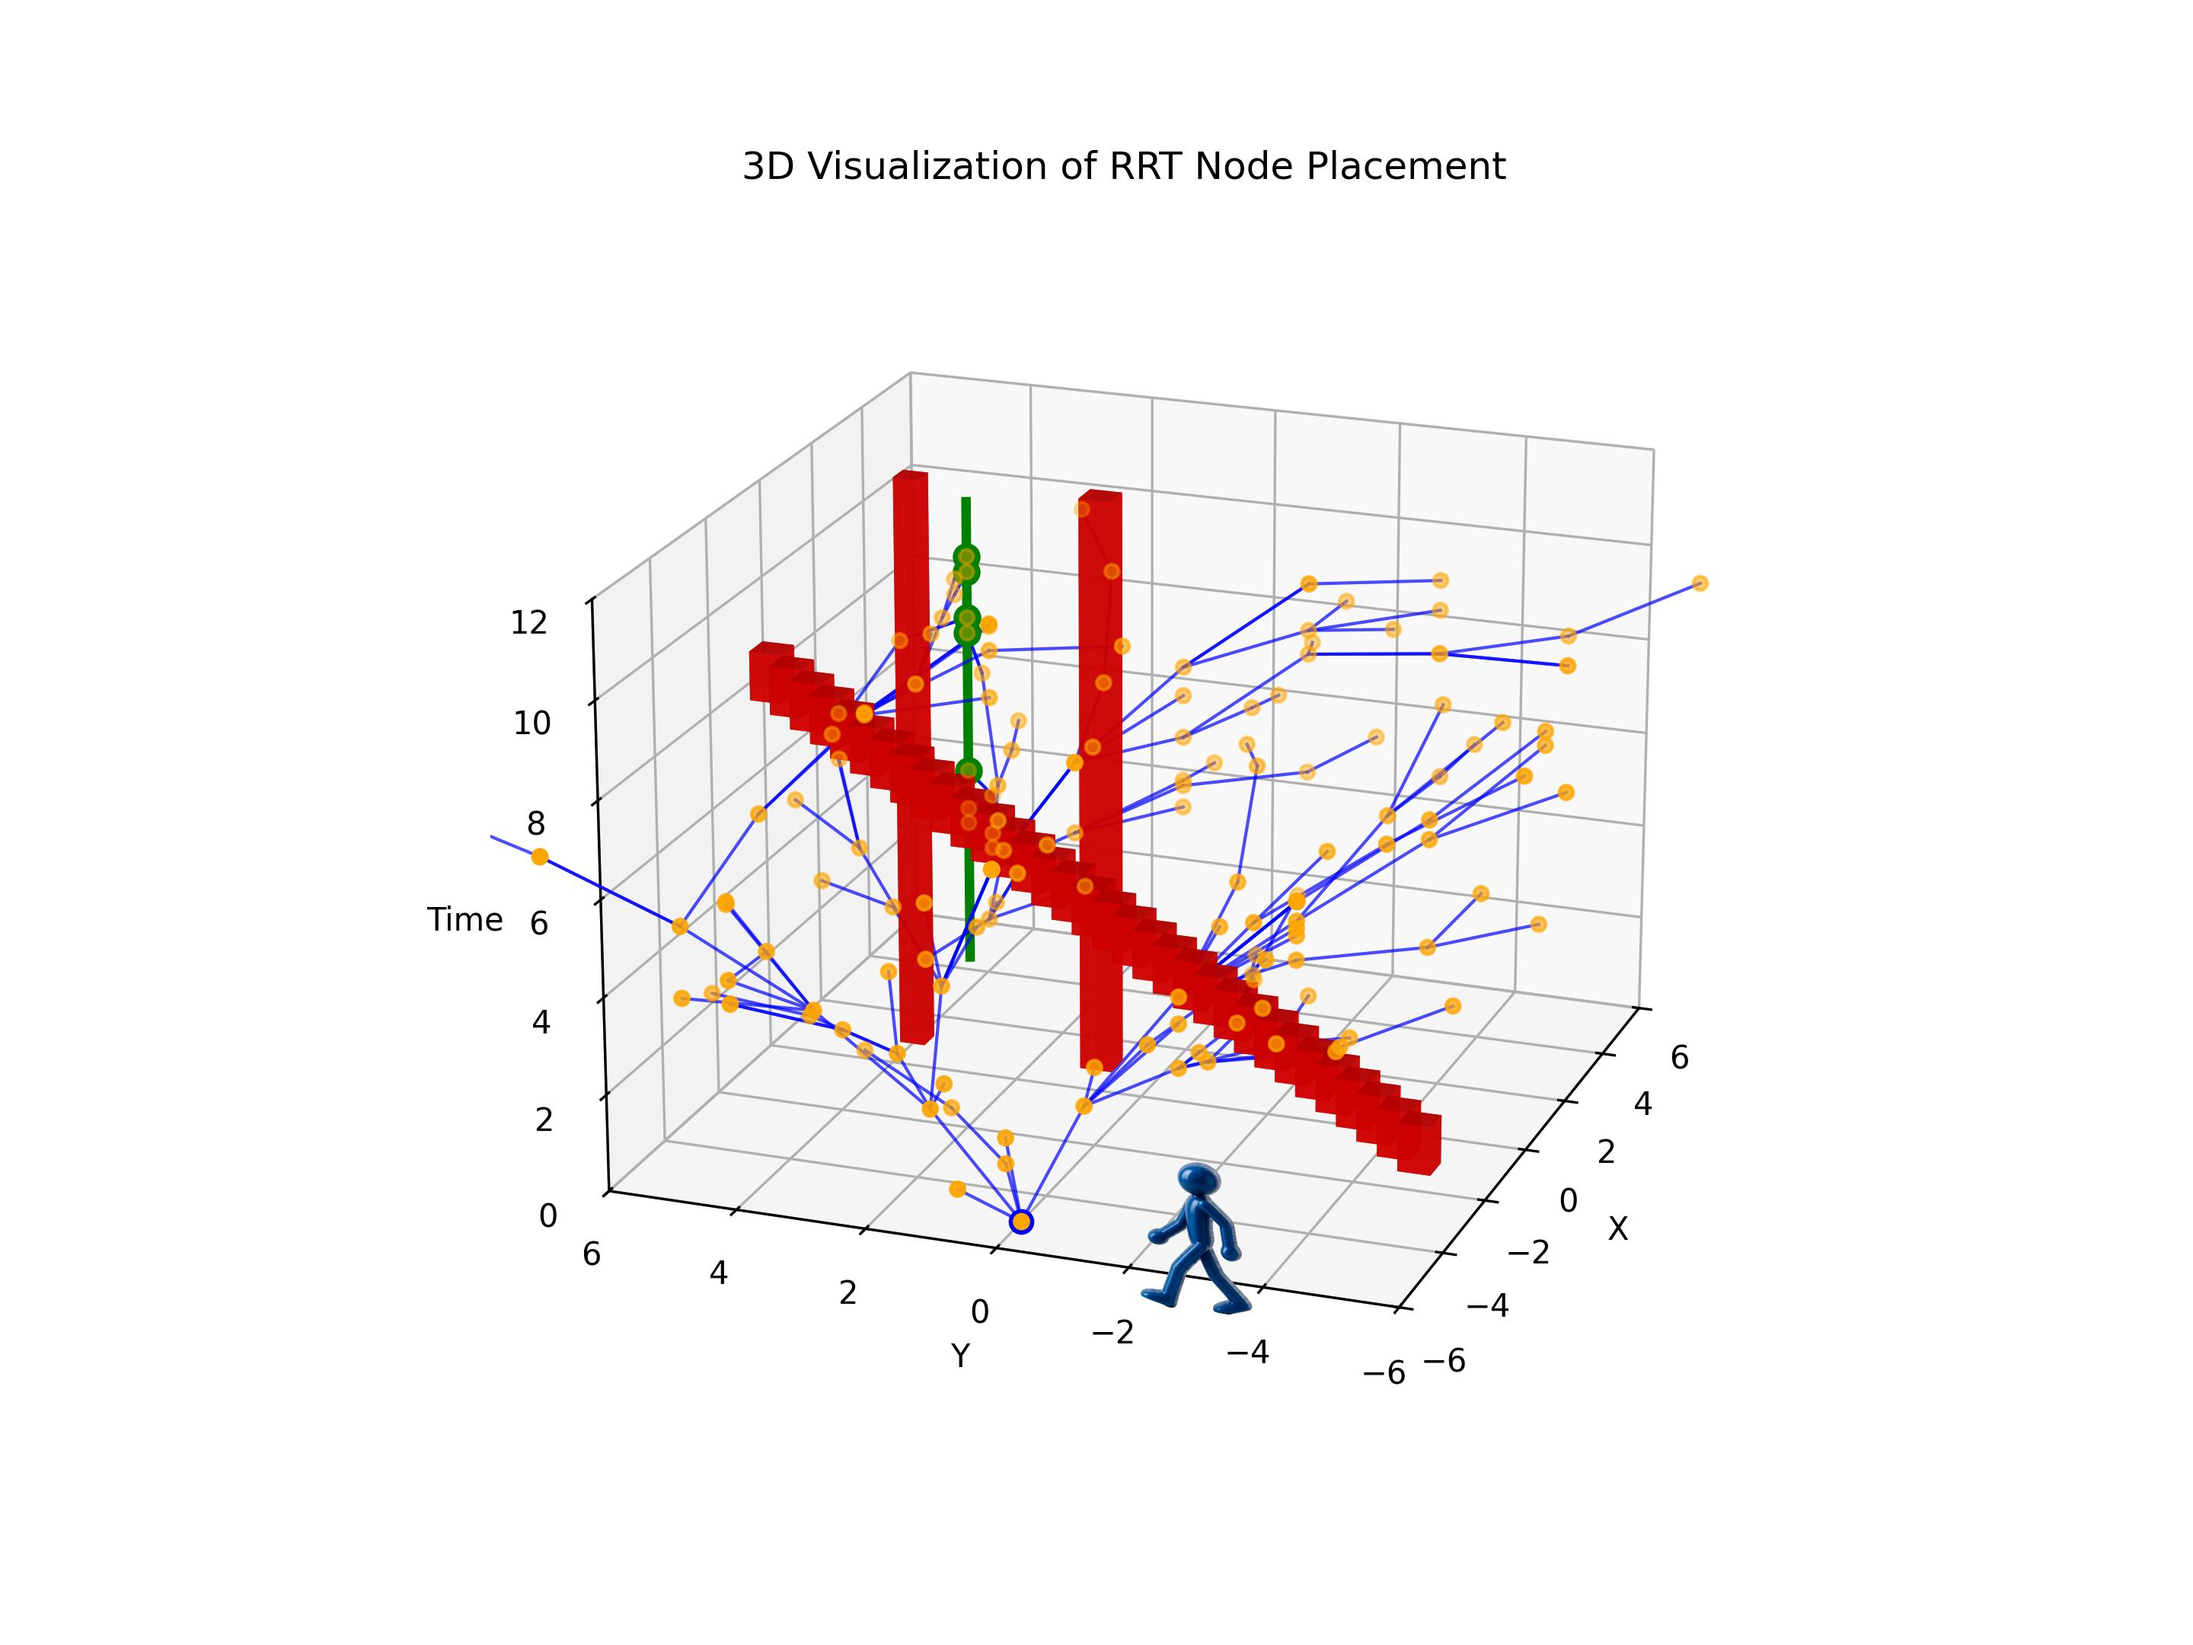
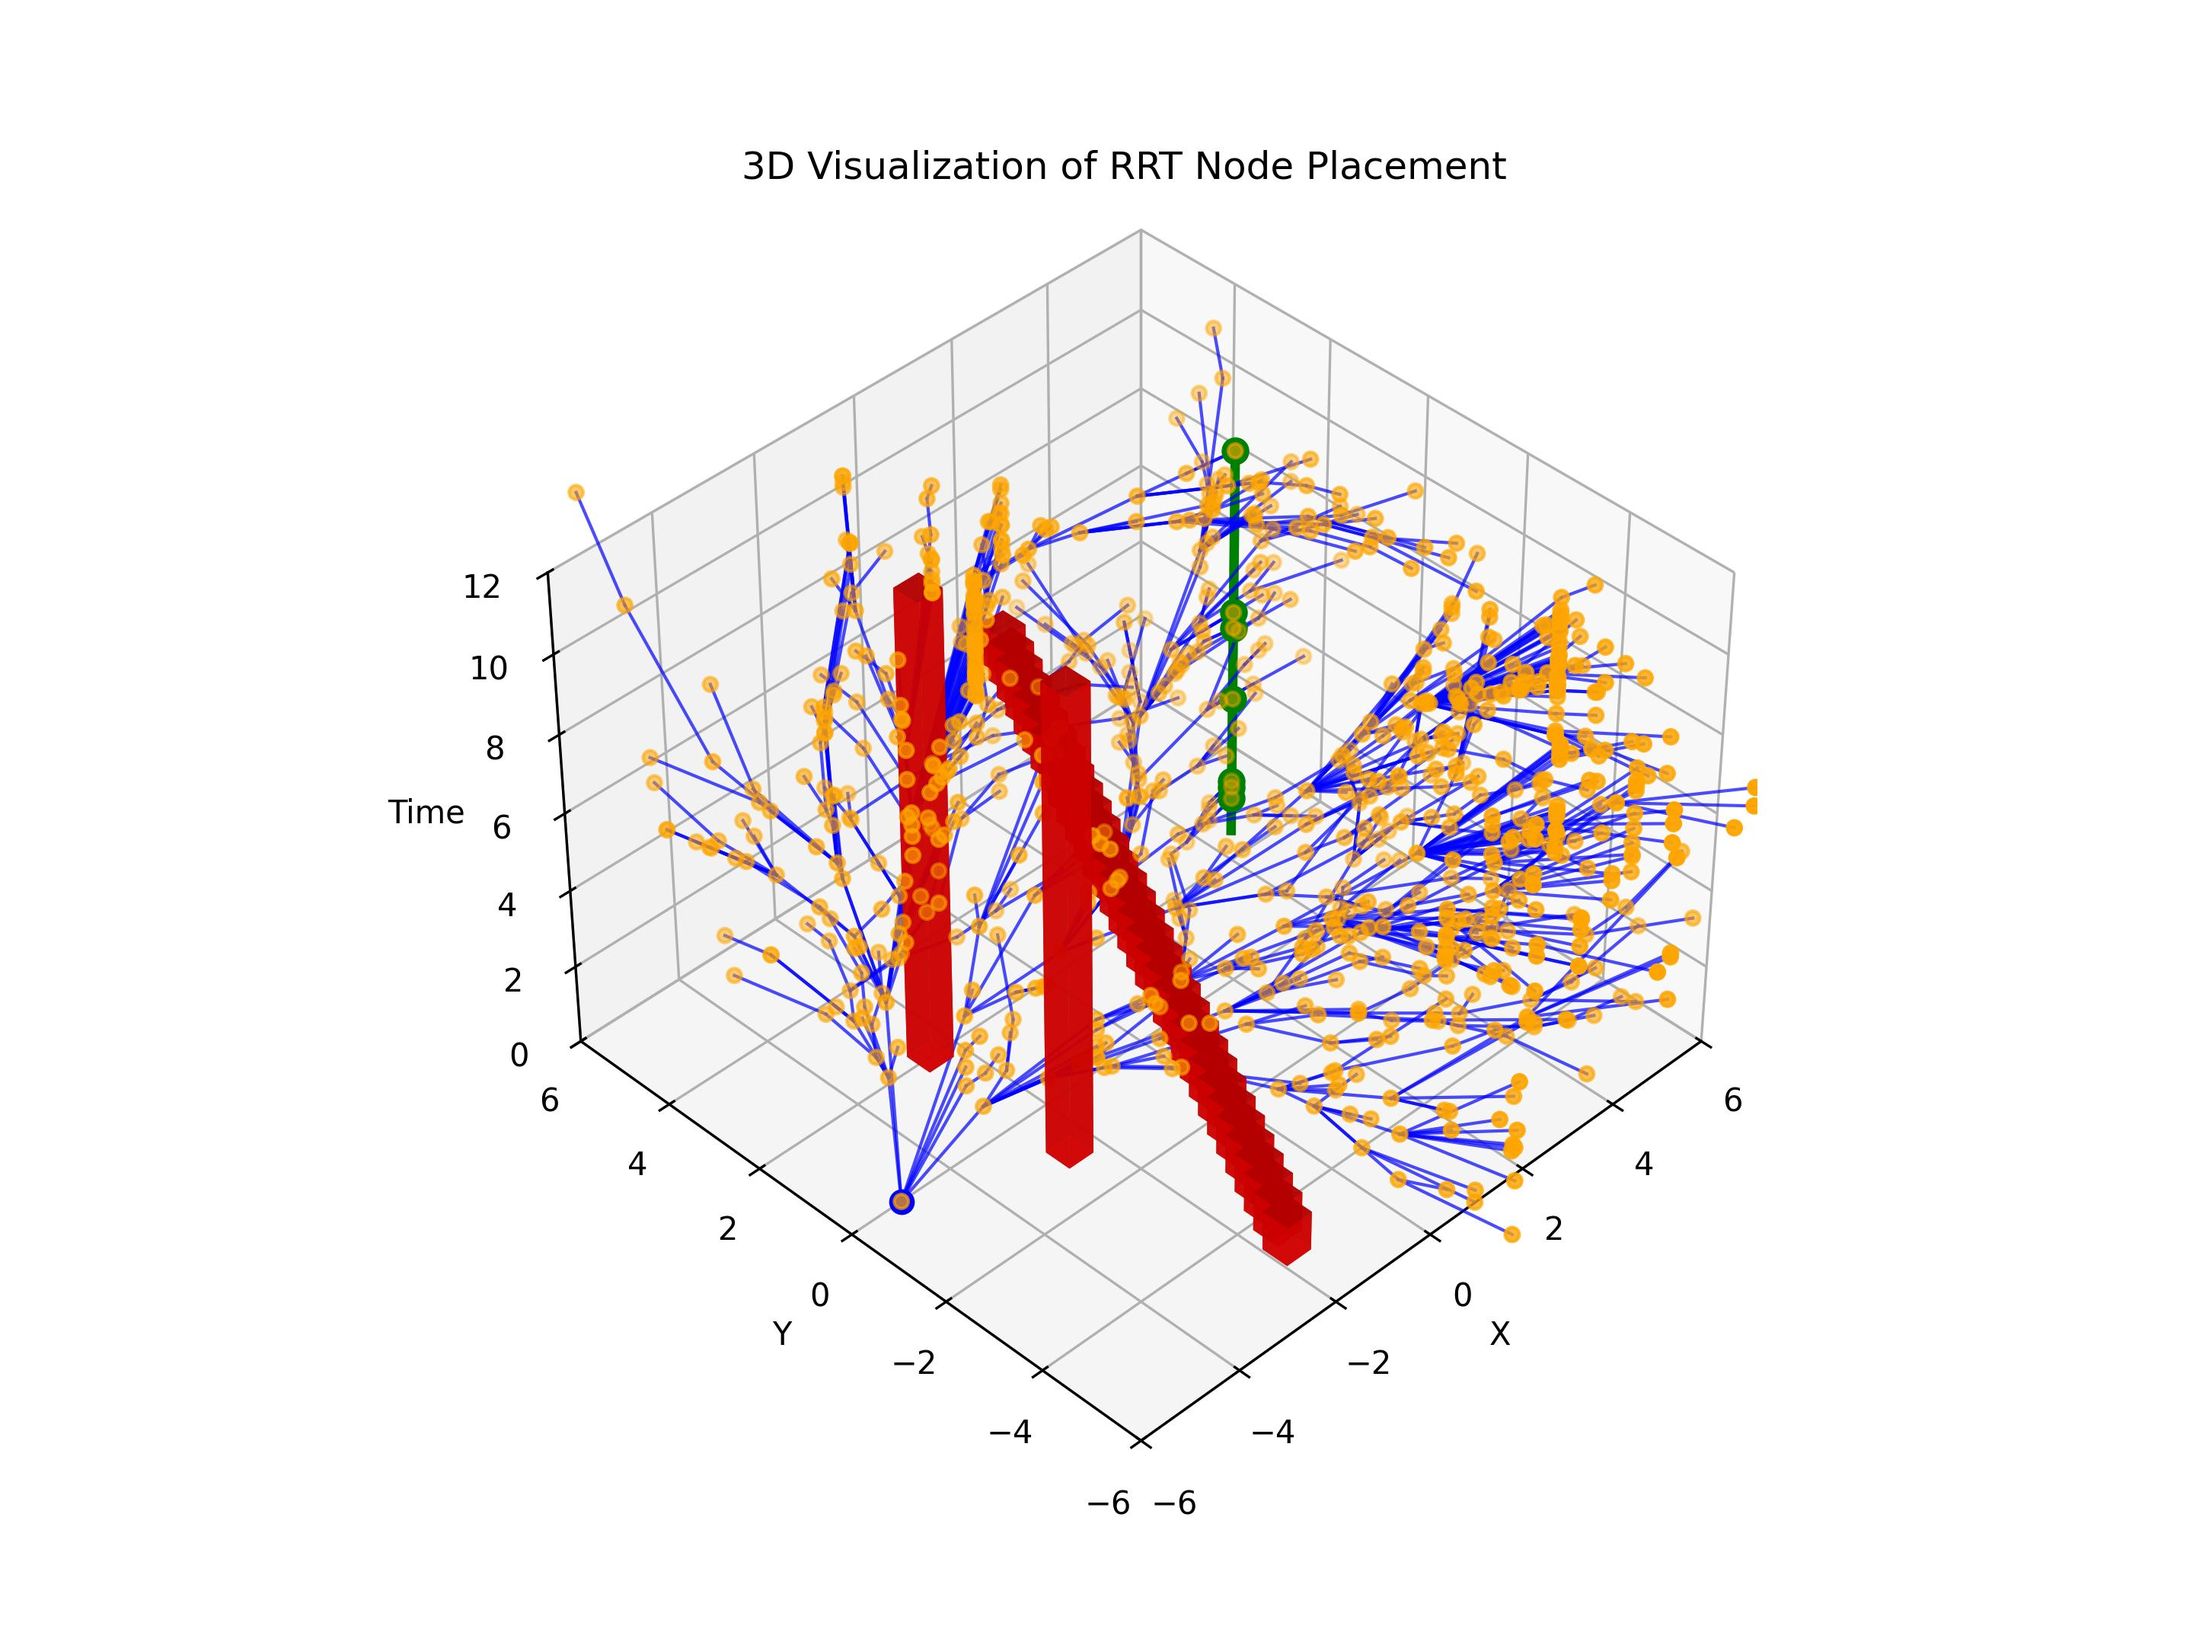
checkpoint before branching

Changed region(s): [[0.2188, 0.1861, 0.8125, 0.8375], [0.625, 0.7755, 0.6875, 0.8375], [0.375, 0.7444, 0.4062, 0.7755]]

diff --git a/graph_visualizer.py b/graph_visualizer.py
@@ -11,7 +11,10 @@ import rrtDemo
 # Enable/disable GIF rendering
 render_gif = False
 
-# Example usage of the exposed VisRRT class (named RRT in Python)
+# Enable/disable adding PNG images to the plot and GIF
+render_png = False
+
+# Example usage of the exposed VisRRT class 
 # Set up parameters for the RRT
 range_a_x = -5.0
 range_a_y = -5.0
@@ -25,11 +28,11 @@ dest_y = 2.5
 dest_time = 10.0  # Time for destination (e.g., max_time)
 max_angle_rad = 0.3
 max_dist = 2.0
-min_dist = 0.5
-max_interval = 1.5
+min_dist = 0.01
+max_interval = 5
 max_time = 10.0
 dim_3D = True
-iteration_limit = 500
+iteration_limit = 1000
 initial_heading = 0.6  
 max_admissible = 7
 
@@ -40,15 +43,17 @@ origin = (origin_x, origin_y, origin_time, initial_heading)
 dest = (dest_x, dest_y, dest_time, 0.0)
 
 # Define occupancy map as a list of ((x, y, time, heading), width) tuples
-# Add boxes with time (z) determined by the slope, width=0.5, height=1, centroid along the slope line
-# x(y) = -2, y in [-5, 5], 3x density, slope of 16, height of 1
 occupancy_map = [
     ((1.0, 1.0, 12.0, 0.0), 0.5),
-    ((1.0, 4.0, 12.0, 0.0), 0.4)
+    ((1.0, 4.0, 12.0, 0.0), 0.5)
 ]
-for y in np.linspace(-5, 5, num=33):  # 33 boxes for 3x density
-    z_centroid = 1.0 + 4 * (y + 5) / 10  # slope line for centroid, slope reduced by half from 8 to 4
-    occupancy_map.append(((-2.0, y, z_centroid, 0.0), 0.5))  # z_centroid is the center, box height is always 1
+for i, y in enumerate(np.linspace(-5, 5, num=33)):  # 33 boxes for 3x density
+    z_centroid = 1.0 + 4 * (y + 5) / 10  # slope line for centroid
+    x_start = -2
+    x_end = 2
+    z_min, z_max = 1.0, 5.0
+    x = x_start + (x_end - x_start) * ((z_centroid - z_min) / (z_max - z_min))
+    occupancy_map.append(((x, y, z_centroid, 0.0), 0.5))  # z_centroid is the center, box height is always 1
 
 vis_rrt = rrtDemo.RRT(
     occupancy_map, range_a, range_b, origin, dest,
@@ -66,6 +71,8 @@ while not vis_rrt.isComplete():
 # Check results
 print("RRT build complete:", vis_rrt.isComplete())
 print("Number of nodes:", vis_rrt.getNodeCount() - 2)  # Exclude origin and dest
+
+#
 
 # Get the coordinates of the first node in vis_rrt
 first_node = vis_rrt.getNodeAt(0)
@@ -185,9 +192,19 @@ if render_gif:
         ax_anim.set_xlim(-6, 6)
         ax_anim.set_ylim(-6, 6)
         ax_anim.set_zlim(0, 12)
-        ax_anim.view_init(elev=20, azim=-160)  # <-- Rotate view 180 degrees clockwise
+        ax_anim.view_init(elev=40, azim=-135)  # <-- Rotate view 225 degrees clockwise
         # Plot with transparency
-        ax_anim.plot_surface(img_x, img_y, img_z, rstride=1, cstride=1, facecolors=img, shade=False)
+        if render_png:
+            ax_anim.plot_surface(img_x, img_y, img_z, rstride=1, cstride=1, facecolors=img, shade=False)
+            for x, y, z in yield_positions:
+                # Position on yz plane, matching bar3d transformation: x - w/2 - 3.5, y - w/2 - 2
+                fixed_x = x - 0.5 / 2 - 3.5  # w=0.5 from occupancy_map
+                fixed_y = y - 0.5 / 2 - 2
+                img_y = np.linspace(fixed_y, fixed_y + yield_width, yield_img.shape[1])
+                img_z = np.linspace(0, yield_height, yield_img.shape[0])
+                img_y, img_z = np.meshgrid(img_y, img_z)
+                img_x = np.full_like(img_y, fixed_x)
+                ax_anim.plot_surface(img_x, img_y, img_z, rstride=1, cstride=1, facecolors=yield_img, shade=False)
 
     # Create and save the animation as GIF
     anim = animation.FuncAnimation(fig_anim, animate, frames=num_frames, interval=interval_ms, blit=False, repeat=True)
@@ -251,7 +268,7 @@ ax.set_title('3D Visualization of RRT Node Placement')
 ax.set_xlim(-6, 6)
 ax.set_ylim(-6, 6)
 ax.set_zlim(0, 12)
-ax.view_init(elev=20, azim=-160)  # <-- Rotate view 180 degrees clockwise
+ax.view_init(elev=40, azim=-135)  # <-- Rotate view 225 degrees clockwise
 
 # Load the PNG image with transparency
 img = mpimg.imread("blue_man.png")
@@ -273,10 +290,134 @@ img_z = np.linspace(0, img_height, img.shape[0])
 img_y, img_z = np.meshgrid(img_y, img_z)
 img_x = np.full_like(img_y, fixed_x)
 
-# Plot the surface with facecolors (handles RGBA transparency automatically—no white background)
-ax.plot_surface(img_x, img_y, img_z, rstride=1, cstride=1, facecolors=img, shade=False)
+# Load yield.png and normalize
+yield_img = mpimg.imread("yield.png")
+if yield_img.dtype == np.uint8:
+    yield_img = yield_img.astype(np.float32) / 255.0
 
-# Show and save the static plot
+# Flip and mirror if needed (to match blue_man orientation)
+yield_img = np.flipud(yield_img)
+yield_img = np.fliplr(yield_img)
+
+# Set size for yield sign
+yield_height = 3.0
+yield_width = yield_img.shape[1] / yield_img.shape[0] * yield_height
+
+
+yield_positions = [
+    (-4, 0, 12.0),
+    (-4, 3, 12.0)
+]
+
+# Only plot images if enabled, and do it at the very end
+if render_png:
+    # Plot blue_man.png
+    ax.plot_surface(img_x, img_y, img_z, rstride=1, cstride=1, facecolors=img, shade=False)
+    # Plot yield.png at both positions
+    for x, y, z in yield_positions:
+        fixed_x = x  # Use the new x position directly
+        fixed_y = y - 0.5 / 2 - 2
+        img_y = np.linspace(fixed_y, fixed_y + yield_width, yield_img.shape[1])
+        img_z = np.linspace(0, yield_height, yield_img.shape[0])
+        img_y, img_z = np.meshgrid(img_y, img_z)
+        img_x = np.full_like(img_y, fixed_x)
+        ax.plot_surface(img_x, img_y, img_z, rstride=1, cstride=1, facecolors=yield_img, shade=False)
+
 plt.show()
 fig.savefig("rrt_plot.jpeg", format="jpeg", dpi=300)
 print("Static plot saved as 'rrt_plot.jpeg'.")
+
+# At line 332 (after static plot is shown and saved)
+if not render_gif:
+    response = input("GIF rendering is disabled. Do you want to generate the GIF? (y/n): ").strip().lower()
+    if response == 'n':
+        sys.exit()
+    elif response == 'y':
+        render_gif = True
+        print("GIF generation enabled. Continuing...")
+    else:
+        print("Invalid input. Exiting.")
+        sys.exit()
+
+# --- GIF Animation Section ---
+if render_gif:
+    # Double the size of the GIF render (was 6.4 x 4.8, now 12.8 x 9.6)
+    fig_anim = plt.figure(figsize=(12.8, 9.6))
+    ax_anim = fig_anim.add_subplot(111, projection='3d')
+    # Static elements data (for replotting in each frame)
+    obstacle_data = []
+    for occ in occupancy_map:
+        (x, y, z, heading), w = occ
+        h = z  # Use the z (time) value from the tuple as the height of the prism
+        obstacle_data.append((x - w / 2, y - w / 2, 0, w, w, h))
+
+    # Load the PNG image with transparency
+    img = mpimg.imread("blue_man.png")
+    if img.dtype == np.uint8:
+        img = img.astype(np.float32) / 255.0
+
+    # Handle flips (including alpha)
+    img = np.flipud(img)
+
+
+    # Same sizing/positioning as static plot
+    img_height = 4
+    img_width = img.shape[1] / img.shape[0] * img_height
+    fixed_x = -2.2
+    img_y = np.linspace(-5 - 1, -5 + img_width - 1, img.shape[1])  # Shift y by -1
+    img_z = np.linspace(0, img_height, img.shape[0])
+    img_y, img_z = np.meshgrid(img_y, img_z)
+    img_x = np.full_like(img_y, fixed_x)
+
+    def animate(frame):
+        ax_anim.cla()
+        # Replot obstacles
+        for x_start, y_start, z_start, dx, dy, dz in obstacle_data:
+            ax_anim.bar3d(x_start, y_start, z_start, dx, dy, dz, shade=True, color='red', alpha=0.8)
+        # Plot a blue dot at the first node
+        ax_anim.scatter(first_x, first_y, first_z, color='blue', s=50)
+        # Plot a vertical green line at the destination (orthogonal to z/time plane)
+        ax_anim.plot([dest_x, dest_x], [dest_y, dest_y], [0, dest_time], color='green', linewidth=3)
+        # Plot nodes up to current frame
+        current_xs = all_node_xs[:frame + 1]
+        current_ys = all_node_ys[:frame + 1]
+        current_zs = all_node_zs[:frame + 1]
+        if current_xs:
+            ax_anim.scatter(current_xs, current_ys, current_zs, color='orange', s=20)
+        # Draw blue lines for forward connections where both nodes are visible
+        for i in range(frame + 1):
+            fwd_list = fwd_dict.get(i, [])
+            x1, y1, z1 = all_node_xs[i], all_node_ys[i], all_node_zs[i]
+            for fwd_idx in fwd_list:
+                if fwd_idx <= frame:
+                    x2, y2, z2 = all_node_xs[fwd_idx], all_node_ys[fwd_idx], all_node_zs[fwd_idx]
+                    ax_anim.plot([x1, x2], [y1, y2], [z1, z2], color='blue', linewidth=1, alpha=0.7)
+        # Plot large green dots for all nodes at (dest_x, dest_y) that are visible
+        for idx in green_indices:
+            if idx <= frame:
+                ax_anim.scatter(all_node_xs[idx], all_node_ys[idx], all_node_zs[idx], color='green', s=60)
+        # Set labels, title, limits
+        ax_anim.set_xlabel('X')
+        ax_anim.set_ylabel('Y')
+        ax_anim.set_zlabel('Time')
+        ax_anim.set_title('3D Animation of RRT Node Placement')
+        ax_anim.set_xlim(-6, 6)
+        ax_anim.set_ylim(-6, 6)
+        ax_anim.set_zlim(0, 12)
+        ax_anim.view_init(elev=40, azim=-225)  # <-- Rotate view 225 degrees clockwise
+        # Plot with transparency
+        if render_png:
+            ax_anim.plot_surface(img_x, img_y, img_z, rstride=1, cstride=1, facecolors=img, shade=False)
+            for x, y, z in yield_positions:
+                # Position on yz plane, matching bar3d transformation: x - w/2 - 3.5, y - w/2 - 2
+                fixed_x = x - 0.5 / 2 - 3.5  # w=0.5 from occupancy_map
+                fixed_y = y - 0.5 / 2 - 2
+                img_y = np.linspace(fixed_y, fixed_y + yield_width, yield_img.shape[1])
+                img_z = np.linspace(0, yield_height, yield_img.shape[0])
+                img_y, img_z = np.meshgrid(img_y, img_z)
+                img_x = np.full_like(img_y, fixed_x)
+                ax_anim.plot_surface(img_x, img_y, img_z, rstride=1, cstride=1, facecolors=yield_img, shade=False)
+
+    # Create and save the animation as GIF
+    anim = animation.FuncAnimation(fig_anim, animate, frames=num_frames, interval=interval_ms, blit=False, repeat=True)
+    anim.save('rrt_animation.gif', writer='pillow')
